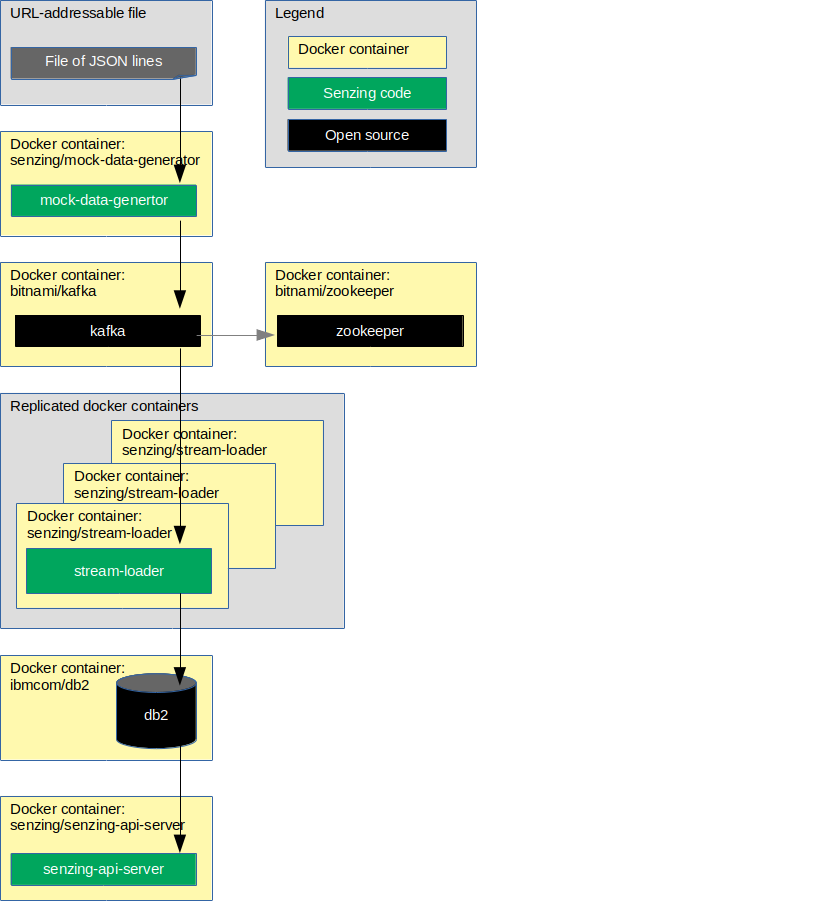
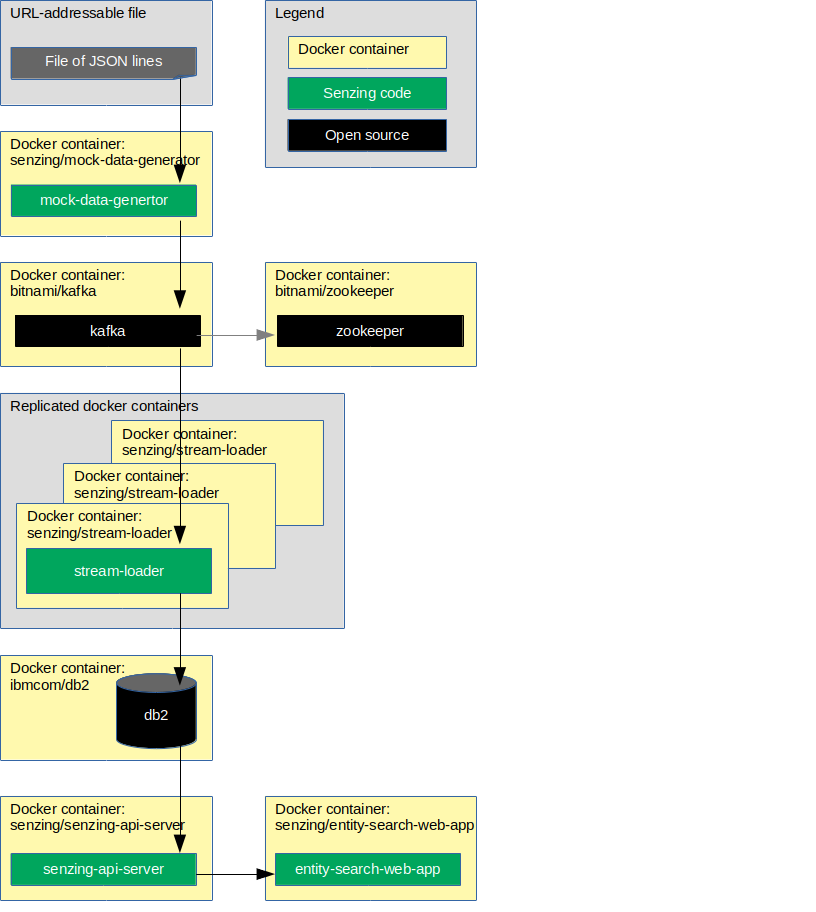
issue-16 Modify for RPM install

Changed region(s): [[0.3064, 0.8596, 0.5821, 1.0]]

diff --git a/docs/docker-compose-kafka-db2/README.md b/docs/docker-compose-kafka-db2/README.md
@@ -28,6 +28,7 @@ This docker formation brings up the following docker containers:
 1. *[senzing/senzing-base](https://github.com/Senzing/docker-senzing-base)*
 1. *[senzing/stream-loader](https://github.com/Senzing/stream-loader)*
 1. *[senzing/senzing-api-server](https://github.com/Senzing/senzing-api-server)*
+1. *[senzing/entity-web-search-app](https://github.com/Senzing/entity-search-web-app)*
 
 ### Contents
 
@@ -43,7 +44,8 @@ This docker formation brings up the following docker containers:
     1. [Configuration](#configuration)
     1. [Volumes](#volumes)
     1. [Run docker formation](#run-docker-formation)
-    1. [Test Senzing API](#test-senzing-api)
+    1. [View results](#view-results)
+    1. [View Senzing API](#view-senzing-api)
 1. [Cleanup](#cleanup)
 
 ## Expectations
